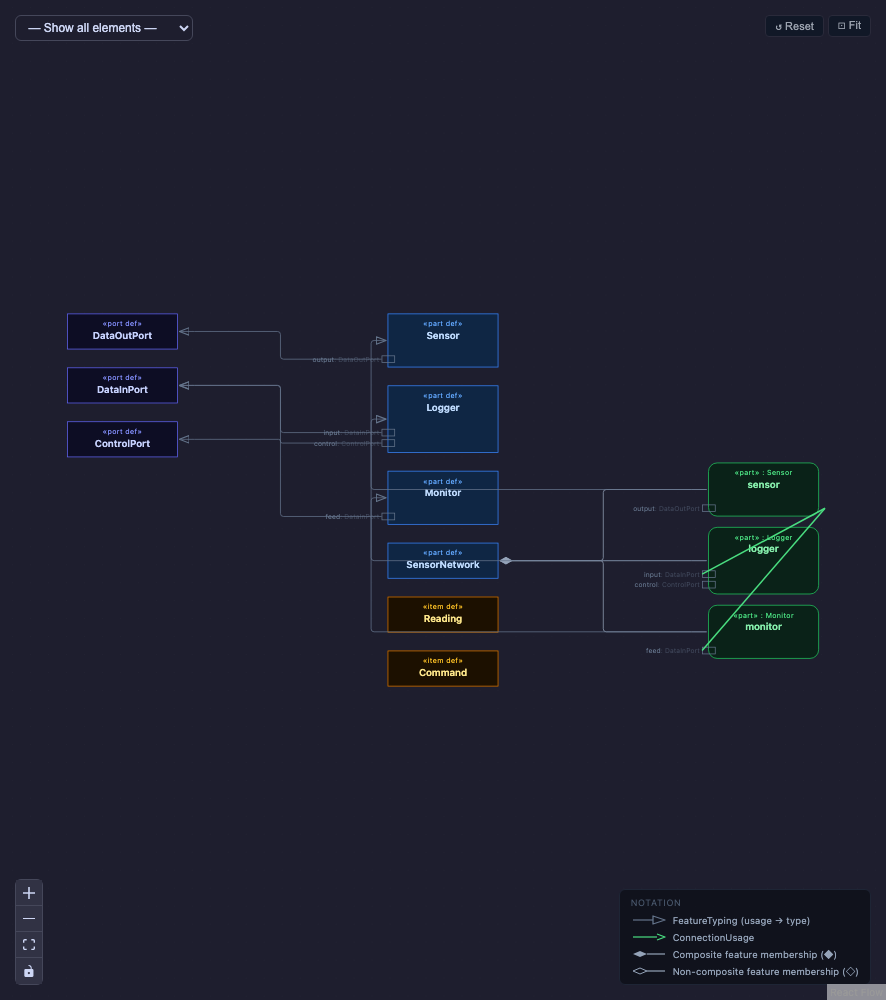
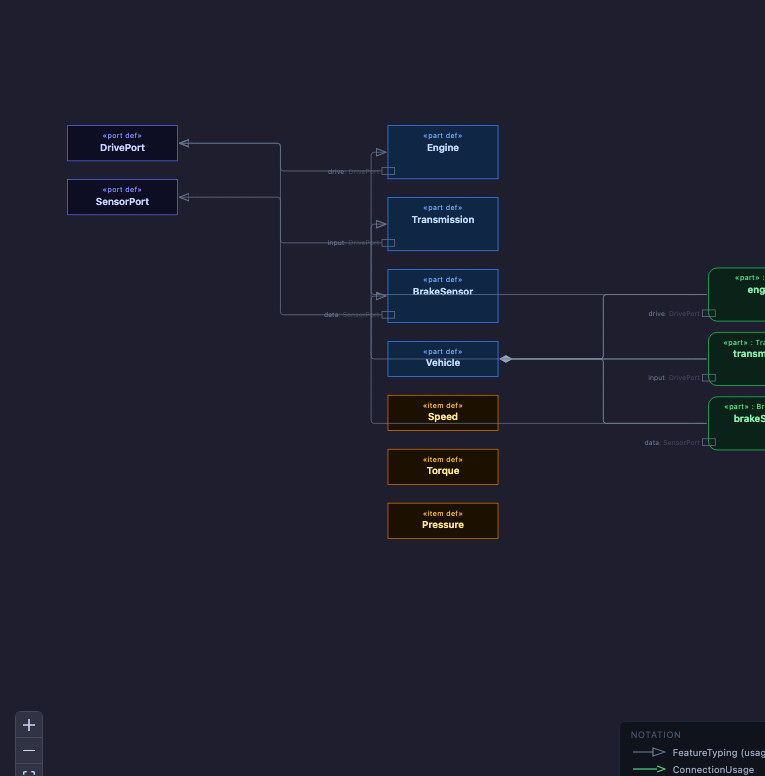
Add state view screenshot and fix transition rendering in official mode
- Fix general view doc: replace SensorNetwork example with VehicleSystem
  (no connect statements → no stray ConnectionUsage arrows in screenshot)
- Add state-overview.png screenshot to view-state.md
- Add TransitionUsage/SuccessionAsUsage enrichment in officialSysMLAdapter:
  harvest transitions from behavior.flows and inject them into stateDef bodies
  so the State view renders edges in official SysML v2 service mode
- Update screenshot-docs.mjs: use official SysML v2 state syntax and click
  Model Explorer .expl-item-statemachine to open the State view

diff --git a/src/core/adapters/officialSysMLAdapter.ts b/src/core/adapters/officialSysMLAdapter.ts
@@ -1095,6 +1095,46 @@ export function convertGraph(parseResult: SysMLV2ParseResult): VisualizerModel {
 
   traverse(roots, '', false);
 
+  // ── Enrich stateDef bodies with transitions from behavior flows ───────────
+  // The containment graph does not carry source→target for TransitionUsage /
+  // SuccessionAsUsage inside state machines.  The behaviorBuilder already
+  // extracted these as BehaviorFlow items so we harvest them here.
+  const stateDefs = nodes.filter((n): n is Extract<typeof n, { kind: 'stateDef' }> => n.kind === 'stateDef');
+  if (stateDefs.length > 0 && parseResult.behavior?.flows?.length) {
+    // Build: stateName → stateDef (using the stateEntry children)
+    const stateOwner = new Map<string, typeof stateDefs[0]>();
+    for (const sd of stateDefs) {
+      for (const child of (sd as { body: SysMLNode[] }).body) {
+        if (child.kind === 'stateEntry') stateOwner.set(child.name, sd);
+      }
+    }
+
+    for (const flow of parseResult.behavior.flows) {
+      if (flow.type !== 'succession' && flow.type !== 'transition') continue;
+
+      const from = 'source' in flow ? flow.source : ('sourceName' in flow ? flow.sourceName : '');
+      const to   = 'target' in flow ? flow.target : ('targetName' in flow ? flow.targetName : '');
+      const guard = flow.type === 'transition' && 'guard' in flow ? (flow.guard ?? '') : '';
+
+      if (!to) continue;
+
+      // Initial transition: empty source, target is a known state
+      const targetDef = stateOwner.get(to);
+      if (!targetDef) continue;
+      // Regular: both source and target belong to the same stateDef
+      if (from && stateOwner.get(from) !== targetDef) continue;
+
+      const body = (targetDef as { body: SysMLNode[] }).body;
+      // Avoid duplicates (behaviour builder may emit the same transition twice)
+      const alreadyAdded = body.some(
+        c => c.kind === 'transition' && (c as { from: string; to: string }).from === from && (c as { from: string; to: string }).to === to,
+      );
+      if (!alreadyAdded) {
+        body.push({ kind: 'transition', from, to, event: guard, line: 0 });
+      }
+    }
+  }
+
   console.log('[convertGraph] nodes[]:', nodes.map(n => {
     const any = n as Record<string, unknown>;
     return `${n.kind}:${String(any['name'] ?? '?')}${any['type'] ? `:${any['type']}` : ''}`;

diff --git a/docs/view-general.md b/docs/view-general.md
@@ -32,56 +32,55 @@ Arrow notation (shown in the NOTATION legend):
 
 ## 2. Minimal working example
 
-The General view renders any package that contains definition elements — the
-same model used for the Interconnect view works directly:
+The General view renders any package that contains definition elements.  This
+example uses only definitions (no `connect` statements) so the diagram stays
+clean — connection arrows only appear when `connect` statements are present.
 
 ```sysml
-package SensorNetwork {
+package VehicleSystem {
 
-    item def Reading;
-    item def Command;
+    item def Speed;
+    item def Torque;
+    item def Pressure;
 
-    port def DataOutPort {
-        out value : Reading;
-    }
-    port def DataInPort {
-        in value : Reading;
-    }
-    port def ControlPort {
-        in  cmd    : Command;
-        out status : Reading;
+    port def DrivePort {
+        out torque : Torque;
+        in  speed  : Speed;
     }
 
-    part def Sensor {
-        port output  : DataOutPort;
+    port def SensorPort {
+        out pressure : Pressure;
     }
-    part def Logger {
-        port input   : DataInPort;
-        port control : ControlPort;
-    }
-    part def Monitor {
-        port feed    : DataInPort;
-    }
-    part def SensorNetwork {
-        part sensor  : Sensor;
-        part logger  : Logger;
-        part monitor : Monitor;
 
-        connect sensor.output  to logger.input;
-        connect sensor.output  to monitor.feed;
+    part def Engine {
+        port drive : DrivePort;
+    }
+
+    part def Transmission {
+        port input : DrivePort;
+    }
+
+    part def BrakeSensor {
+        port data  : SensorPort;
+    }
+
+    part def Vehicle {
+        part engine       : Engine;
+        part transmission : Transmission;
+        part brakeSensor  : BrakeSensor;
     }
 }
 ```
 
 ### What the plugin shows
 
-![General view — SensorNetwork package](img/general-overview.png)
+![General view — VehicleSystem package](img/general-overview.png)
 
 - Left column: port definitions (violet), with arrows to the part definitions
   that own a port of that type.
 - Centre column: part definitions (blue) and item definitions (gold).
 - Right column: part usages (green) — the concrete instances declared inside
-  `SensorNetwork` with their wiring visible as `ConnectionUsage` arrows.
+  `Vehicle` typed by the surrounding part definitions.
 - Bottom-right: NOTATION legend explaining each arrow type.
 
 ---

diff --git a/docs/view-state.md b/docs/view-state.md
@@ -10,6 +10,8 @@ transition arrows.
 > switches to the State view automatically.  Alternatively, switch to
 > standalone / developer mode where the **State** tab appears directly.
 
+![State view](img/state-overview.png)
+
 ---
 
 ## 1. SysML v2 elements used
